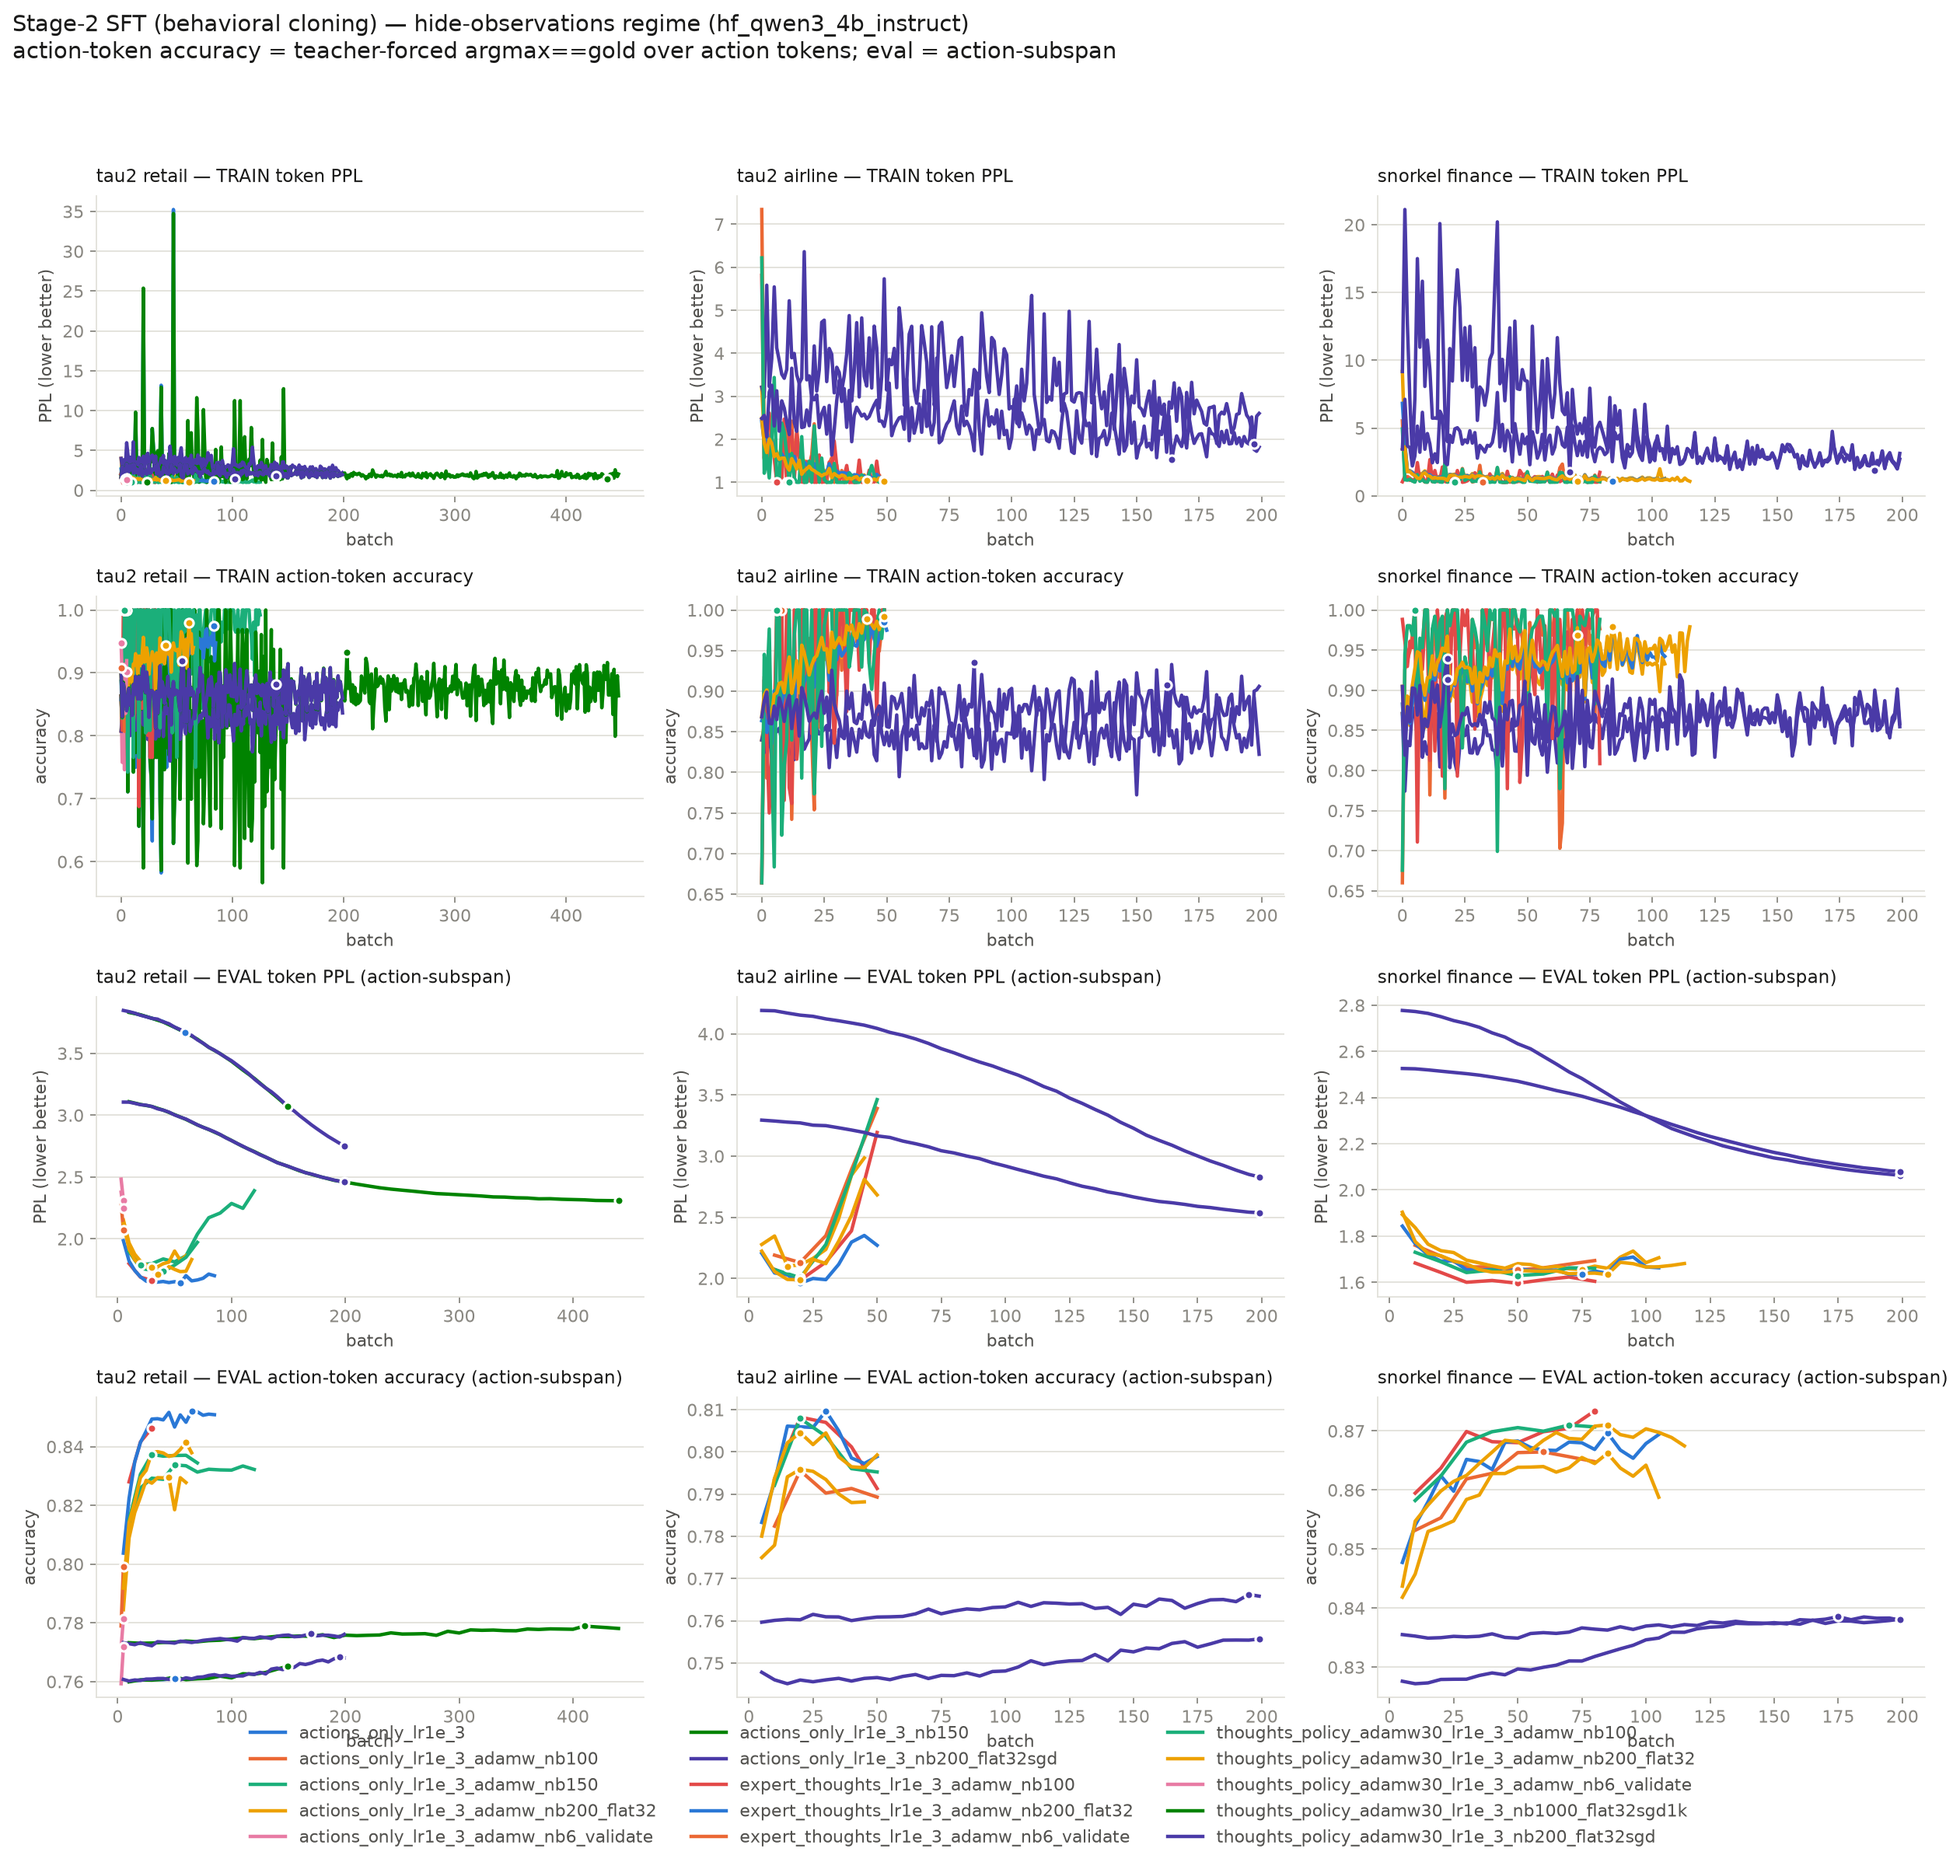
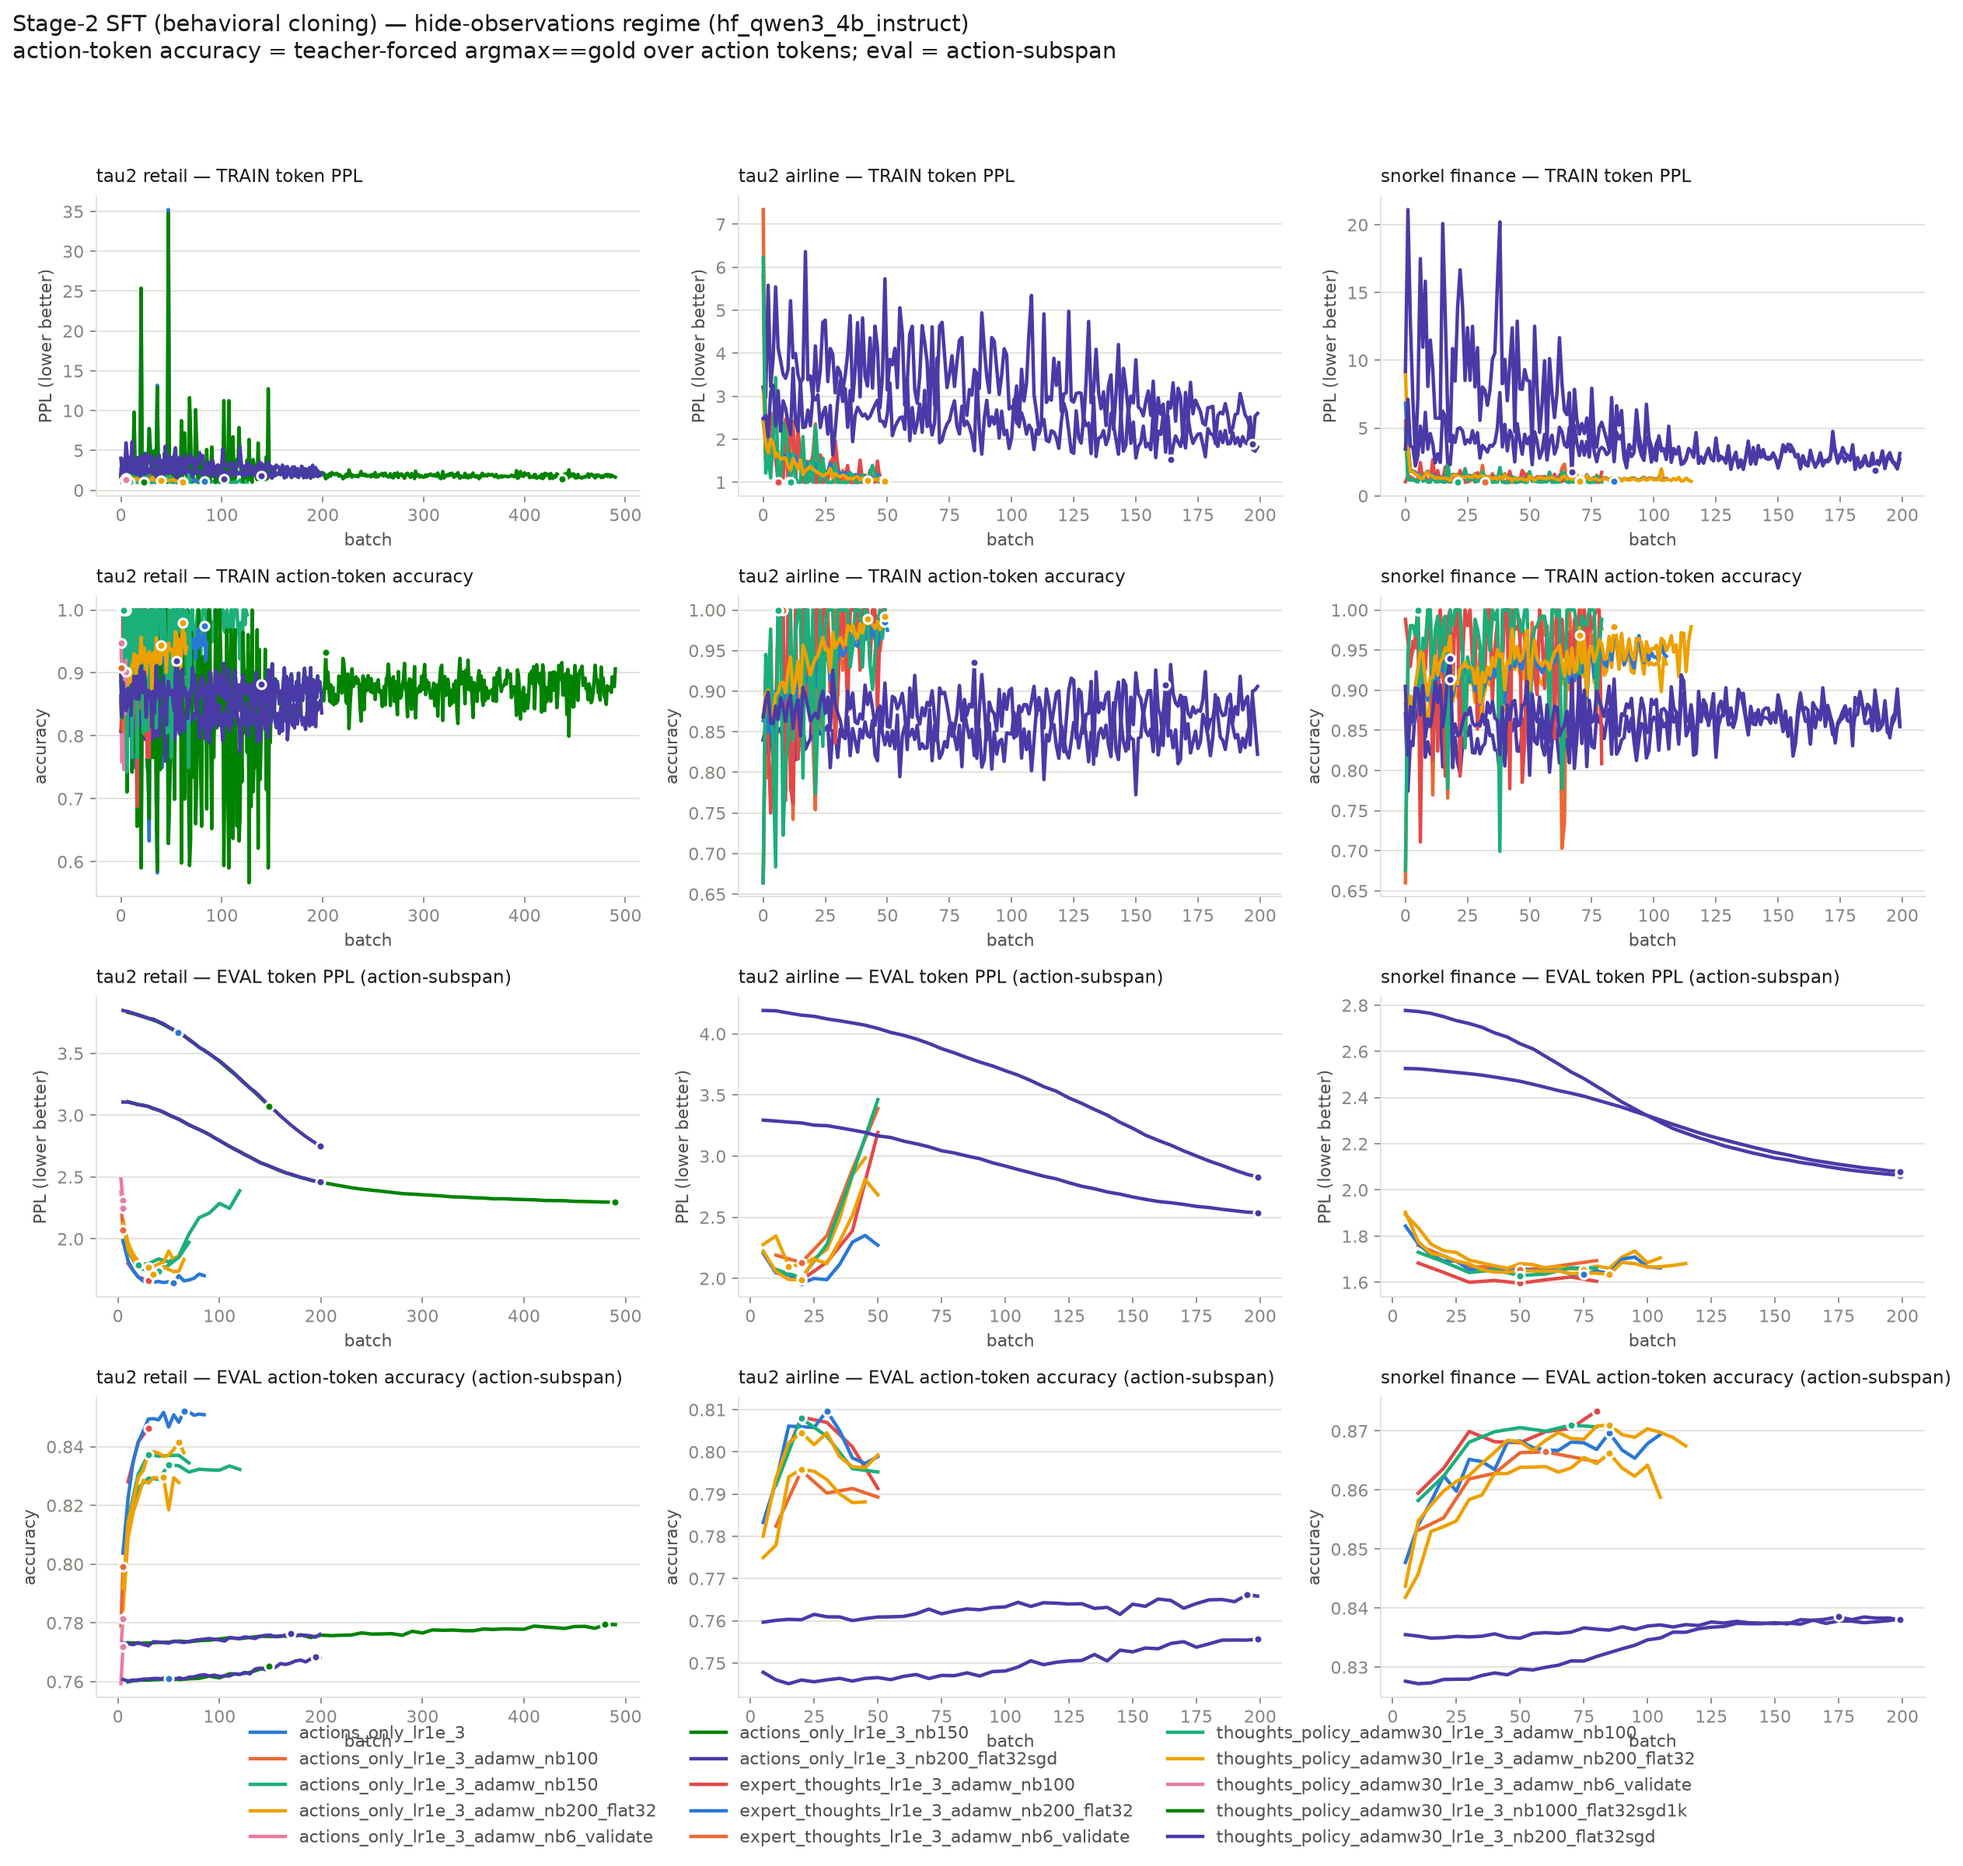
auto: SFT LR sweep results snapshot

diff --git a/notes/cc-5.0-sft-lr-investigation.md b/notes/cc-5.0-sft-lr-investigation.md
@@ -376,7 +376,7 @@ retail/expert_thoughts_lr1e_3_adamw_nb6_validate     hide    5     2.2879 ->   2
 retail/thoughts_policy_adamw30_lr1e_3_adamw_nb100    hide   70     1.8959 ->   1.9718  -4.00%  0.8345        1.3828  <running>
 retail/thoughts_policy_adamw30_lr1e_3_adamw_nb200_flat32 hide   65     2.1230 ->   1.8328  13.67%  0.8379        1.2222  <running>
 retail/thoughts_policy_adamw30_lr1e_3_adamw_nb6_validate hide    5     2.3775 ->   2.2449   5.57%  0.7814        1.3506
-retail/thoughts_policy_adamw30_lr1e_3_nb1000_flat32sgd1k hide  447     3.1089 ->   2.3084  25.75%  0.7781        2.0334  <running>
+retail/thoughts_policy_adamw30_lr1e_3_nb1000_flat32sgd1k hide  490     3.1089 ->   2.2959  26.15%  0.7794        1.6370  <running>
 retail/thoughts_policy_adamw30_lr1e_3_nb200_flat32sgd hide  199     3.1058 ->   2.4625  20.71%  0.7761        1.9910
 airline/actions_only_lr1e_3_adamw_nb100              hide   50     2.1901 ->   3.3899 -54.78%  0.7893        1.0000  <running>
 airline/actions_only_lr1e_3_adamw_nb200_flat32       hide   45     2.2776 ->   2.9850 -31.06%  0.7882        1.0679  <running>
@@ -397,7 +397,7 @@ snorkel_finance_split/thoughts_policy_adamw30_lr1e_3_nb200_flat32sgd hide  199  
 
 11/31 arms complete   (Δ% = held-out action-subspan PPL improvement, higher is better)
 ```
-_last refreshed: 2026-09-03 04:20_
+_last refreshed: 2026-09-03 04:40_
 <!--/RESULTS-->
 
 ## Infrastructure

diff --git a/notes/cc-3.0-retail_sft_results.md b/notes/cc-3.0-retail_sft_results.md
@@ -45,7 +45,7 @@ for wordiness rather than for mispredicting the action, which inverts the rankin
 | thoughts_policy_adamw30_lr1e_3_adamw_nb100 | hide | 1.7358 | 0.8368 | 40 | 1.9884 | 0.7917 | 20 | 0.3668 |
 | thoughts_policy_adamw30_lr1e_3_adamw_nb200_flat32 | hide | 1.7150 | 0.8383 | 35 | — | — | — | 0.2997 |
 | thoughts_policy_adamw30_lr1e_3_adamw_nb6_validate | hide | 2.2449 | 0.7814 | 5 | — | — | — | 0.6407 |
-| thoughts_policy_adamw30_lr1e_3_nb1000_flat32sgd1k | hide | 2.3084 | 0.7781 | 440 | — | — | — | 0.8430 |
+| thoughts_policy_adamw30_lr1e_3_nb1000_flat32sgd1k | hide | 2.2959 | 0.7794 | 490 | — | — | — | 0.7602 |
 | thoughts_policy_adamw30_lr1e_3_nb200_flat32sgd | hide | 2.4625 | 0.7761 | 199 | — | — | — | 0.8002 |
 | thoughts_policy_adamw30_lr1e_4_adamw_nb200_flat32 | hide | 1.7313 | 0.8393 | 140 | — | — | — | 0.2530 |
 | thoughts_policy_adamw30_lr3e_3_nb200_flat32sgd | hide | 2.2822 | 0.7809 | 199 | — | — | — | 0.6983 |
